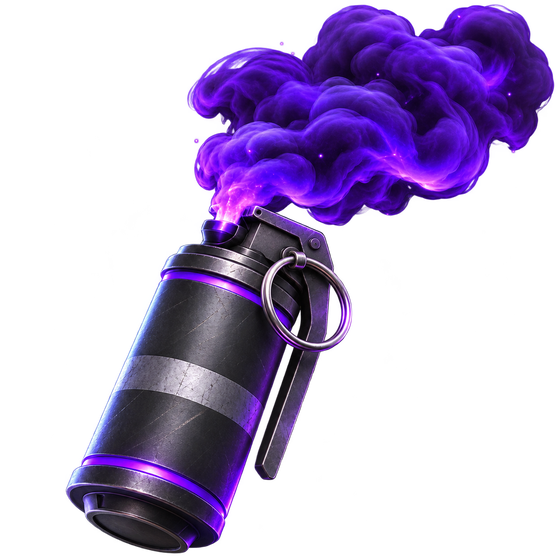
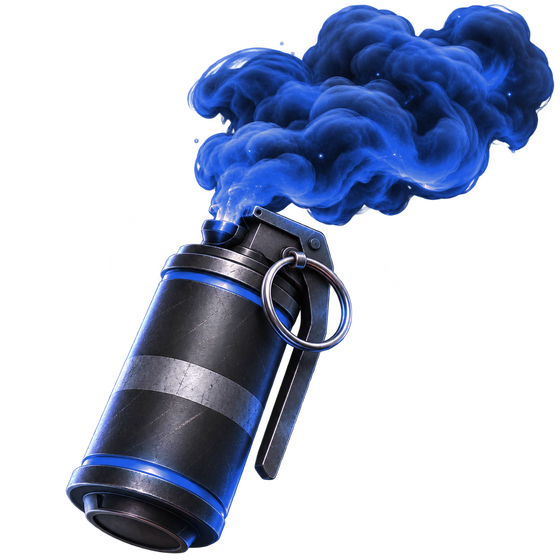
Shop front door: purple to deep navy blue (pictures hue-shifted, card tint #14172e, blue glow)
Claude-Session: https://claude.ai/code/session_01TcQZBqkxUw3iNcovWih4PN

diff --git a/src/components/shop-home.tsx b/src/components/shop-home.tsx
@@ -8,7 +8,7 @@ import { cn } from "@/lib/utils"
 export type ShopTarget = "ranks" | "model" | "smoke_color" | "discord_role" | "topup"
 
 /** One indigo light for every card (owner request 2026-11-15, "put it in the Shop in exactly this style"); palette-exempt: it is the picture's light, not an interface colour. */
-const LIGHT = "#6f7dff"
+const LIGHT = "#3d63ff"
 
 /**
  * The Shop's front door: a short header and one card per thing the Shop sells. Each card is a real 3D picture standing on three isometric glass plates over one soft light;
@@ -60,7 +60,7 @@ export function ShopHome({ onGo, className }: { onGo: (target: ShopTarget) => vo
             <button
               type="button"
               onClick={() => onGo(card.target)}
-              className="group relative flex h-full w-full flex-col overflow-hidden rounded-[22px] border border-white/[0.06] bg-[linear-gradient(180deg,#141416,#0d0d0f)] text-left transition-[transform,border-color] duration-300 hover:-translate-y-0.5 hover:border-white/[0.14] focus-visible:outline-2 focus-visible:outline-offset-2 focus-visible:outline-white motion-reduce:transition-none"
+              className="group relative flex h-full w-full flex-col overflow-hidden rounded-[22px] border border-white/[0.06] bg-[linear-gradient(180deg,#14172e,#0b0c14)] text-left transition-[transform,border-color] duration-300 hover:-translate-y-0.5 hover:border-white/[0.14] focus-visible:outline-2 focus-visible:outline-offset-2 focus-visible:outline-white motion-reduce:transition-none"
             >
               <div className="relative h-[196px] overflow-hidden [mask-image:linear-gradient(180deg,#000_58%,transparent_96%)]">
                 <span aria-hidden="true" className="absolute -bottom-8 left-1/2 h-[130px] w-[80%] -translate-x-1/2 rounded-full opacity-60 blur-[30px] transition-[opacity,transform] duration-300 group-hover:scale-110 group-hover:opacity-100 motion-reduce:transition-none" style={{ background: `radial-gradient(closest-side, ${LIGHT}88, transparent)` }} />
@@ -70,7 +70,7 @@ export function ShopHome({ onGo, className }: { onGo: (target: ShopTarget) => vo
               <div className="relative -mt-3 flex flex-1 flex-col gap-2 px-5 pb-5 pt-3">
                 <span className="text-[17px] font-semibold leading-tight text-[var(--text)]">{card.title.split(" ")[0]}{card.title.includes(" ") ? <span className="text-[var(--text-dim)]"> {card.title.split(" ").slice(1).join(" ")}</span> : null}</span>
                 <span className="max-w-[34ch] text-[13.5px] leading-relaxed text-[var(--text-dim)]">{card.text}</span>
-                <span className="mt-auto inline-flex pt-2 items-center gap-1.5 text-[13px] font-semibold" style={{ color: "#aeb6ff" }}>Open<span aria-hidden="true" className="transition-transform duration-300 group-hover:translate-x-1 motion-reduce:transition-none">→</span></span>
+                <span className="mt-auto inline-flex pt-2 items-center gap-1.5 text-[13px] font-semibold" style={{ color: "#9fb6ff" }}>Open<span aria-hidden="true" className="transition-transform duration-300 group-hover:translate-x-1 motion-reduce:transition-none">→</span></span>
               </div>
             </button>
           </li>
